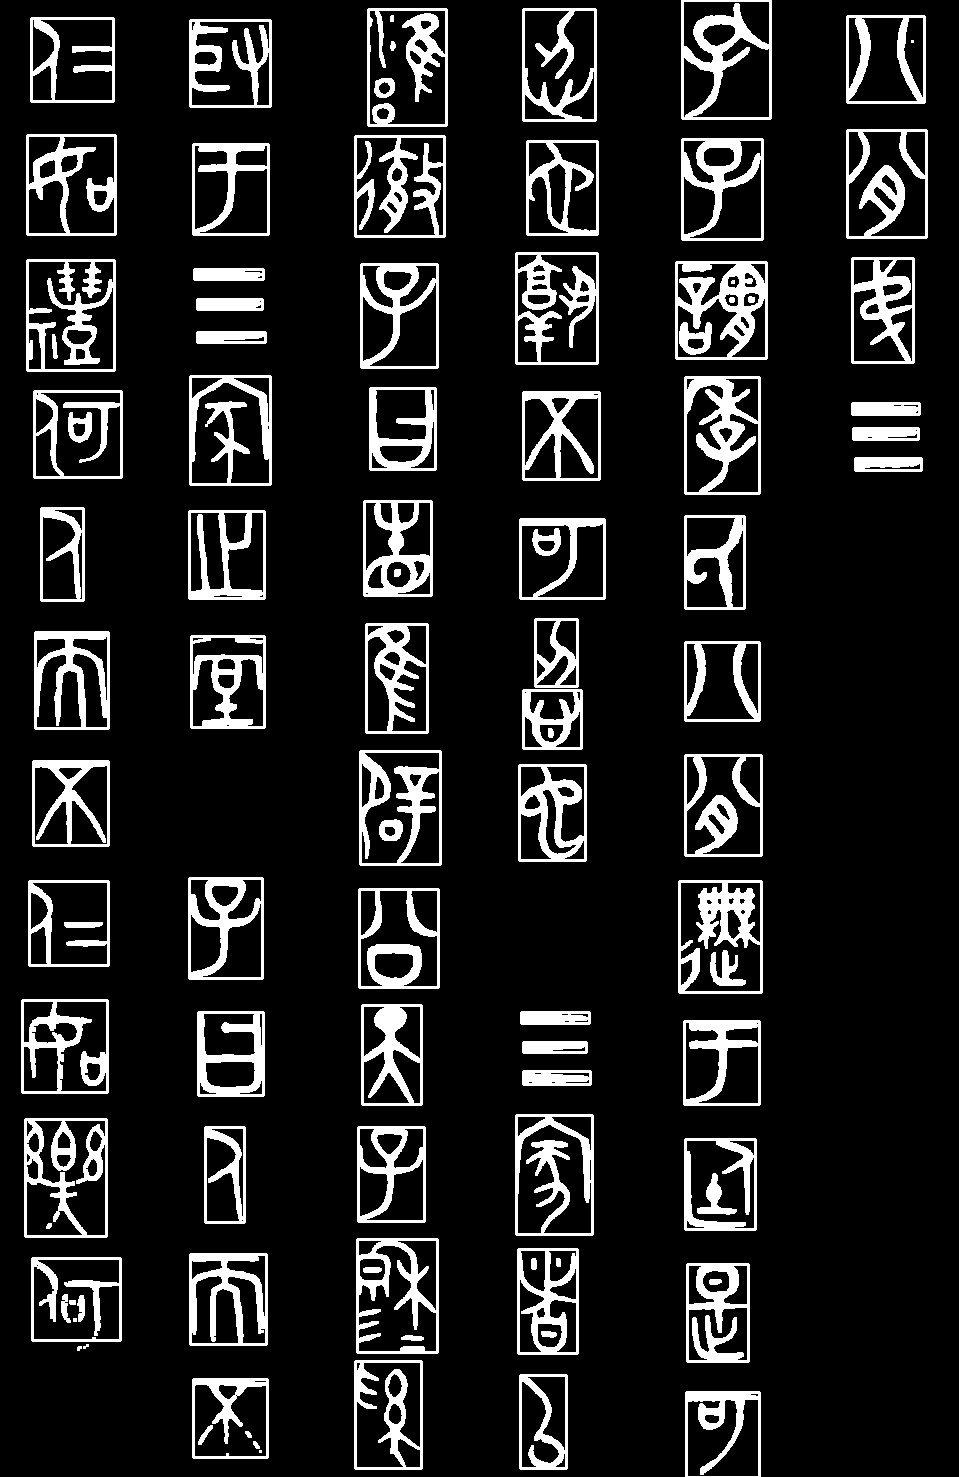
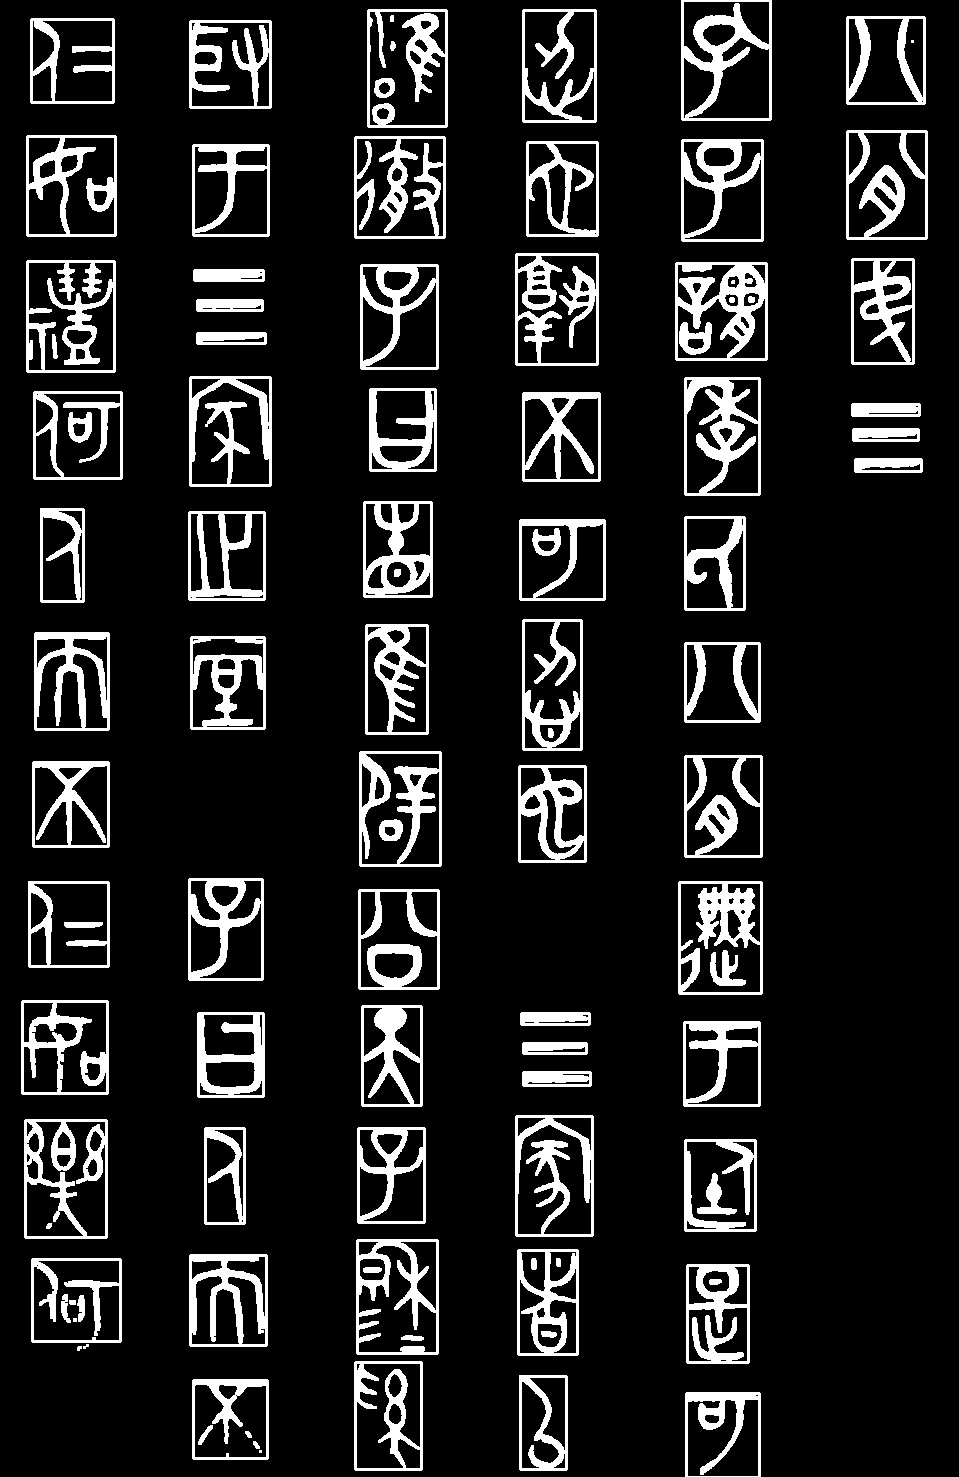
minor modificcation on character 9

diff --git a/list_of_coordinates.py b/list_of_coordinates.py
@@ -24,7 +24,7 @@ output_path=f"./character{idx}/character{idx}_1.jpg"
 cv2.imwrite(output_path, img_denoised)
 
 # Dilate the gaps (mostly horizontally) -> contour can be easily detected
-kernel_2 = np.ones((13,30), np.uint8)
+kernel_2 = np.ones((14,30), np.uint8)
 img_dilated = cv2.morphologyEx(img_denoised, cv2.MORPH_CLOSE, kernel_2)
 
 # Show image, wait for a key press before closing the window
